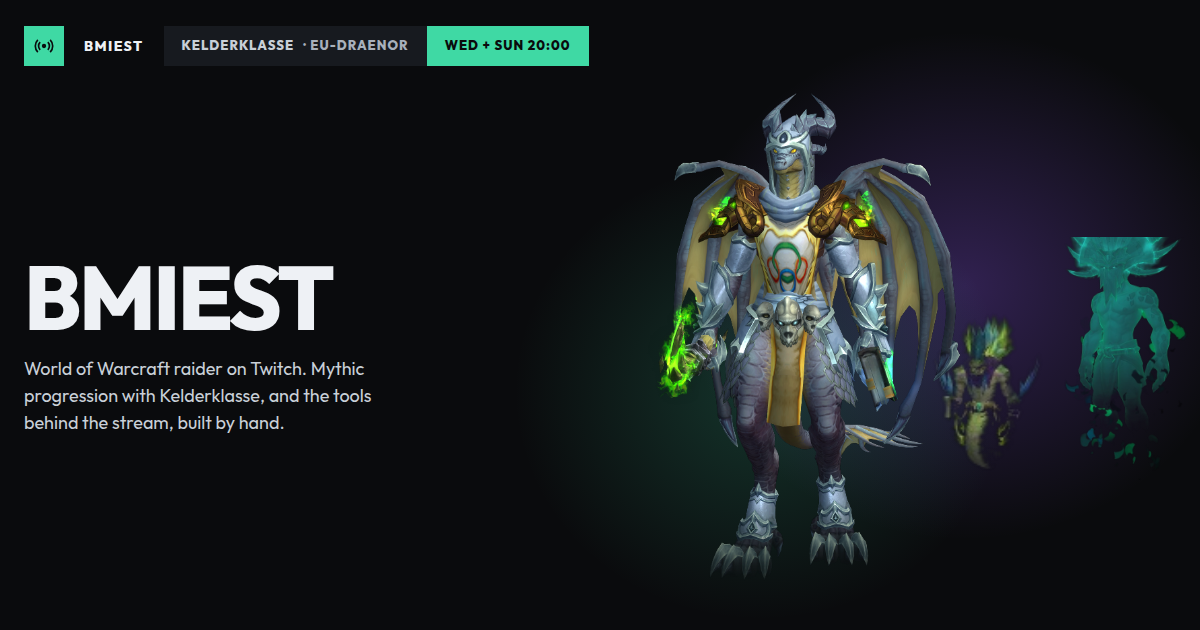
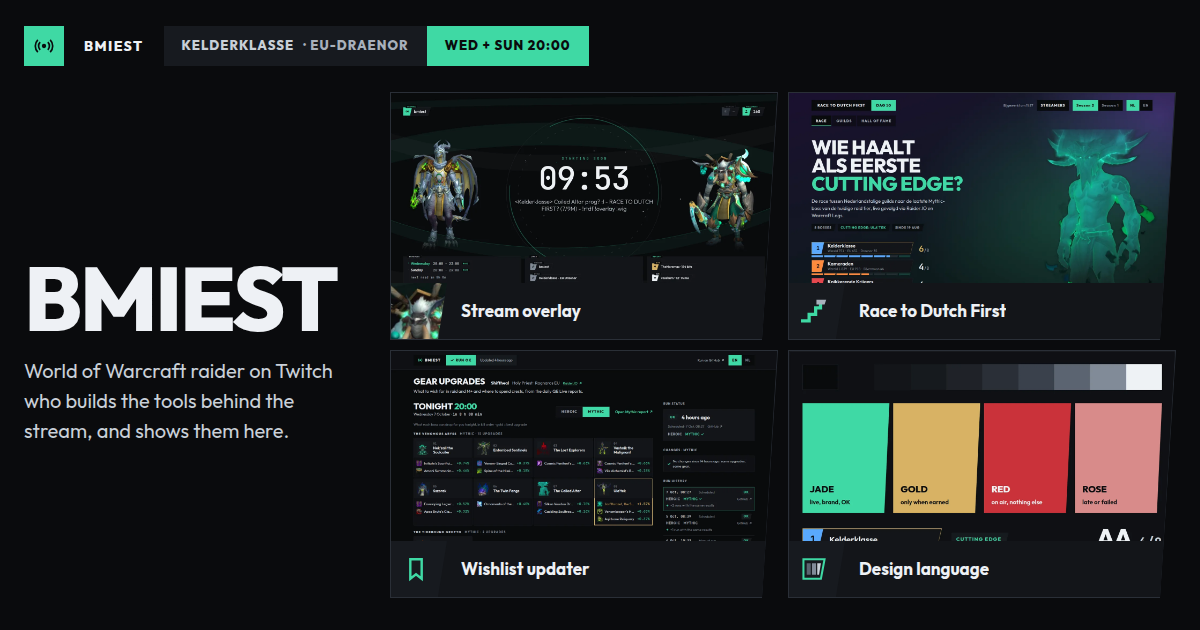
Open on a hub of the tools; YouTube; hub og.png (#2)

diff --git a/index.html b/index.html
@@ -5,12 +5,12 @@
 <meta name="viewport" content="width=device-width, initial-scale=1">
 <meta http-equiv="Content-Security-Policy" content="default-src 'self'; script-src 'self'; style-src 'self' https://fonts.googleapis.com; font-src https://fonts.gstatic.com; img-src 'self' https://render.worldofwarcraft.com; connect-src https://decapi.me https://raider.io https://racetodutchfirst.nl; base-uri 'none'; form-action 'none'">
 <title>bmiest · World of Warcraft on Twitch</title>
-<meta name="description" content="bmiest: Mythic raiding with Kelderklasse on Twitch every Wednesday and Sunday, and the tools behind the stream: the overlay, Race to Dutch First, the wishlist updater and the design language.">
+<meta name="description" content="bmiest: a World of Warcraft raider on Twitch and YouTube, and the tools behind the stream: an OBS overlay, Race to Dutch First, a WoWAudit wishlist updater and the design language that ties them together.">
 <meta name="theme-color" content="#0a0b0d">
 <meta property="og:type" content="website">
 <meta property="og:url" content="https://bmiest.be/">
 <meta property="og:title" content="bmiest · World of Warcraft on Twitch">
-<meta property="og:description" content="Mythic raiding with Kelderklasse, Wednesday and Sunday 20:00, and the tools behind the stream.">
+<meta property="og:description" content="The tools behind a raiding stream: the overlay, Race to Dutch First, the wishlist updater and the design language. Live Wed + Sun 20:00 on Twitch.">
 <meta property="og:image" content="https://bmiest.be/og.png">
 <meta name="twitter:card" content="summary_large_image">
 <link rel="icon" href="favicon.svg" type="image/svg+xml">
@@ -33,6 +33,7 @@
   <symbol id="i-twitch" viewBox="0 0 24 24"><path d="M4 3h17v11l-5 5h-4l-3 3H7v-3H3V7zM6 5v11h3v3l3-3h4l3-3V5zm5 3h2v5h-2zm5 0h2v5h-2z" fill="currentColor"/></symbol>
   <symbol id="i-clips" viewBox="0 0 24 24"><path d="M3 5h18v14H3zM5 7v10h14V7zm5 2 5 3-5 3z" fill="currentColor"/></symbol>
   <symbol id="i-github" viewBox="0 0 24 24"><path d="M12 2a10 10 0 0 0-3.2 19.5c.5.1.7-.2.7-.5v-1.7c-2.8.6-3.4-1.3-3.4-1.3-.4-1.1-1.1-1.4-1.1-1.4-.9-.6.1-.6.1-.6 1 .1 1.5 1 1.5 1 .9 1.5 2.3 1.1 2.9.8.1-.6.3-1.1.6-1.3-2.2-.3-4.6-1.1-4.6-5 0-1.1.4-2 1-2.7-.1-.3-.4-1.3.1-2.7 0 0 .8-.3 2.7 1a9.4 9.4 0 0 1 5 0c1.9-1.3 2.7-1 2.7-1 .5 1.4.2 2.4.1 2.7.6.7 1 1.6 1 2.7 0 3.9-2.4 4.7-4.6 5 .4.3.7.9.7 1.9V21c0 .3.2.6.7.5A10 10 0 0 0 12 2z" fill="currentColor"/></symbol>
+  <symbol id="i-youtube" viewBox="0 0 24 24"><path d="M22 7.4a3 3 0 0 0-2.1-2.1C18 4.8 12 4.8 12 4.8s-6 0-7.9.5A3 3 0 0 0 2 7.4 31 31 0 0 0 1.6 12a31 31 0 0 0 .4 4.6 3 3 0 0 0 2.1 2.1c1.9.5 7.9.5 7.9.5s6 0 7.9-.5a3 3 0 0 0 2.1-2.1 31 31 0 0 0 .4-4.6 31 31 0 0 0-.4-4.6zM10 15.2V8.8l5.2 3.2z" fill="currentColor"/></symbol>
   <symbol id="i-out" viewBox="0 0 24 24"><path d="M7 17 17 7M9 7h8v8" fill="none" stroke="currentColor" stroke-width="2.4" stroke-linecap="square"/></symbol>
   <symbol id="i-check" viewBox="0 0 24 24"><path d="m4 12.5 5 5L20 6.5" fill="none" stroke="currentColor" stroke-width="3" stroke-linecap="square"/></symbol>
   <symbol id="i-cast" viewBox="0 0 24 24"><circle cx="12" cy="12" r="2.6" fill="currentColor"/><path d="M7.4 7.4a6.5 6.5 0 0 0 0 9.2M16.6 7.4a6.5 6.5 0 0 1 0 9.2M4.6 4.6a10.5 10.5 0 0 0 0 14.8M19.4 4.6a10.5 10.5 0 0 1 0 14.8" fill="none" stroke="currentColor" stroke-width="2"/></symbol>
@@ -60,12 +61,18 @@
   <!-- Left: who, and the encounter list. -->
   <div class="index">
     <h1 class="poster index__name">bmiest</h1>
-    <p class="index__lead" data-i18n="lead">World of Warcraft raider on Twitch. Mythic progression with Kelderklasse, and the tools behind the stream, built by hand.</p>
+    <p class="index__lead" data-i18n="lead">World of Warcraft raider on Twitch who builds the tools behind the stream, and shows them here.</p>
 
     <nav class="journal" aria-labelledby="journalLabel">
       <h2 class="journal__label" id="journalLabel" data-i18n="journal">Adventure Guide</h2>
       <ol class="journal__list" id="journal">
-        <li><a class="enc" id="tab-stream" href="#stream" aria-current="true">
+        <li><a class="enc" id="tab-hub" href="#hub" aria-current="true">
+          <span class="enc__bar"><span class="enc__in">
+            <span class="enc__head enc__head--mark"><img src="img/heads/hub.svg" width="32" height="32" alt=""></span>
+            <span class="enc__t"><span class="enc__n" data-i18n="e.hub">Overview</span><span class="enc__s" data-i18n="e.hub.s">4 tools · 1 stream</span></span>
+          </span></span>
+        </a></li>
+        <li><a class="enc" id="tab-stream" href="#stream">
           <span class="enc__bar"><span class="enc__in">
             <span class="enc__head enc__head--live"><img src="img/heads/stream.png" width="128" height="128" alt=""></span>
             <span class="enc__t"><span class="enc__n" data-i18n="e.stream">The stream</span><span class="enc__s" id="encStreamSub" data-i18n="e.stream.s">Wed + Sun · 20:00</span></span>
@@ -102,6 +109,41 @@
   <!-- Right: one entry at a time on wide screens, all of them stacked on phones. -->
   <div class="stage" id="stage">
 
+    <article class="entry entry--hub" id="hub" aria-labelledby="h-hub">
+      <div class="art art--board">
+        <ul class="board">
+          <li><a class="plate" href="#overlay"><span class="plate__in">
+            <img class="plate__shot" src="img/shots/overlay.webp" width="1440" height="810" alt="" decoding="async">
+            <span class="plate__cap"><span class="plate__head"><img src="img/heads/overlay.png" width="128" height="128" alt=""></span><span class="plate__t"><span class="plate__n" data-i18n="e.overlay">Stream overlay</span><span class="plate__s" data-i18n="s.overlay">The OBS overlay the stream runs on</span></span></span>
+          </span></a></li>
+          <li><a class="plate" href="#race"><span class="plate__in">
+            <img class="plate__shot" src="img/shots/race.webp" width="1440" height="900" alt="" decoding="async">
+            <span class="plate__cap"><span class="plate__head plate__head--mark"><img src="img/heads/race.svg" width="32" height="32" alt=""></span><span class="plate__t"><span class="plate__n">Race to Dutch First</span><span class="plate__s" data-i18n="s.race">Live race of Dutch guilds to Cutting Edge</span></span></span>
+          </span></a></li>
+          <li><a class="plate" href="#wishlist"><span class="plate__in">
+            <img class="plate__shot" src="img/shots/wishlist.webp" width="1440" height="900" alt="" decoding="async">
+            <span class="plate__cap"><span class="plate__head plate__head--mark"><img src="img/heads/wishlist.svg" width="32" height="32" alt=""></span><span class="plate__t"><span class="plate__n" data-i18n="e.wishlist">Wishlist updater</span><span class="plate__s" data-i18n="s.wishlist">Your WoWAudit wishlist, filled in daily</span></span></span>
+          </span></a></li>
+          <li><a class="plate" href="#design"><span class="plate__in">
+            <img class="plate__shot" src="img/shots/design.webp" width="1440" height="884" alt="" decoding="async">
+            <span class="plate__cap"><span class="plate__head plate__head--mark"><img src="img/heads/design.svg" width="32" height="32" alt=""></span><span class="plate__t"><span class="plate__n" data-i18n="e.design">Design language</span><span class="plate__s" data-i18n="s.design">One look for all of it, this page too</span></span></span>
+          </span></a></li>
+        </ul>
+      </div>
+      <div class="entry__body">
+        <div class="entry__text">
+          <h2 class="entry__h" id="h-hub"><span data-i18n="h.hubA">Built for the raid,</span> <em data-i18n="h.hubB">by the raider</em></h2>
+          <p class="entry__p" data-i18n="p.hub">Everything here runs for real on raid nights: the overlay on stream, the race on Dutch guilds' screens, the wishlist before every raid. Pick a tool to see it running.</p>
+        </div>
+        <ul class="loot loot--row">
+          <li><a class="btn js-watch" href="https://www.twitch.tv/bmiest"><svg aria-hidden="true"><use href="#i-twitch"/></svg><span class="js-watch-label" data-i18n="watch">Watch on Twitch</span></a></li>
+          <li><a class="drop" href="https://www.youtube.com/@bmiest"><svg aria-hidden="true"><use href="#i-youtube"/></svg><span>YouTube</span></a></li>
+          <li><a class="drop" href="https://www.twitch.tv/bmiest/clips"><svg aria-hidden="true"><use href="#i-clips"/></svg><span data-i18n="clips">Clips</span></a></li>
+          <li><a class="drop" href="https://github.com/Bmiest"><svg aria-hidden="true"><use href="#i-github"/></svg><span>GitHub</span></a></li>
+        </ul>
+      </div>
+    </article>
+
     <article class="entry entry--stream" id="stream" aria-labelledby="h-stream">
       <div class="art art--char" aria-hidden="true">
         <div class="glow glow--void"></div>
@@ -121,7 +163,8 @@
           </ul>
         </div>
         <ul class="loot">
-          <li><a class="btn" id="watchBtn" href="https://www.twitch.tv/bmiest"><svg aria-hidden="true"><use href="#i-twitch"/></svg><span id="watchLabel" data-i18n="watch">Watch on Twitch</span></a></li>
+          <li><a class="btn js-watch" href="https://www.twitch.tv/bmiest"><svg aria-hidden="true"><use href="#i-twitch"/></svg><span class="js-watch-label" data-i18n="watch">Watch on Twitch</span></a></li>
+          <li><a class="drop" href="https://www.youtube.com/@bmiest"><svg aria-hidden="true"><use href="#i-youtube"/></svg><span>YouTube</span></a></li>
           <li><a class="drop" href="https://www.twitch.tv/bmiest/clips"><svg aria-hidden="true"><use href="#i-clips"/></svg><span data-i18n="clips">Clips</span></a></li>
           <li><a class="drop" href="https://github.com/Bmiest"><svg aria-hidden="true"><use href="#i-github"/></svg><span>GitHub</span></a></li>
         </ul>
@@ -242,6 +285,7 @@
   <p class="foot__sig"><span class="foot__mark" aria-hidden="true"><svg><use href="#i-cast"/></svg></span><span data-i18n="foot">bmiest · built by hand in the bmiest design language</span></p>
   <ul class="foot__links">
     <li><a href="https://www.twitch.tv/bmiest">Twitch</a></li>
+    <li><a href="https://www.youtube.com/@bmiest">YouTube</a></li>
     <li><a href="https://www.twitch.tv/bmiest/clips" data-i18n="clips">Clips</a></li>
     <li><a href="https://github.com/Bmiest">GitHub</a></li>
     <li><a href="https://github.com/Bmiest/bmiest_landing" data-i18n="pageSource">This page's source</a></li>

diff --git a/css/site.css b/css/site.css
@@ -124,7 +124,7 @@ svg { display: block; }
 /* An encounter: the overlay's character-select pick. */
 .enc { display: block; color: var(--paper); text-decoration: none; }
 .enc__bar {
-  display: block; height: 66px; padding: 1px; background: var(--ink-600);
+  display: block; height: 54px; padding: 1px; background: var(--ink-600);
   clip-path: polygon(0 0, 100% 0, calc(100% - 11px) 100%, 0 100%);
   transition: background var(--t-fast) var(--ease);
 }
@@ -177,6 +177,35 @@ svg { display: block; }
 
 .loot { list-style: none; display: flex; flex-direction: column; align-items: stretch; gap: 8px; }
 .loot .btn, .loot .drop { width: 100%; }
+
+/* Hub: the loot runs as one row under the text. */
+.entry--hub .entry__body { grid-template-columns: minmax(0, 1fr); }
+.loot--row { flex-direction: row; flex-wrap: wrap; }
+.loot--row .btn, .loot--row .drop { width: auto; }
+
+/* ---- the hub board: the four tools as plates, each a link to its entry ----------
+   A plate is the ribbon's construction at poster size: a 1px slanted outline (ink-600,
+   jade on hover and focus) around an ink-850 body with the real shot on top and a
+   caption bar below, its head tile left like an encounter. */
+/* Absolute in its art box, so the board takes the space the text leaves and never pushes it. */
+.art--board { position: relative; }
+.board { position: absolute; inset: 0; list-style: none; display: grid; grid-template-columns: repeat(2, minmax(0, 1fr)); grid-template-rows: repeat(2, minmax(0, 1fr)); gap: 12px; height: 100%; }
+.plate { display: block; height: 100%; padding: 1px; background: var(--ink-600); color: var(--paper); text-decoration: none;
+  clip-path: polygon(0 0, 100% 0, calc(100% - 16px) 100%, 0 100%); transition: background var(--t-fast) var(--ease); }
+.plate__in { display: grid; grid-template-rows: minmax(0, 1fr) auto; height: 100%; background: var(--ink-850);
+  clip-path: polygon(0 0, 100% 0, calc(100% - 15px) 100%, 0 100%); }
+.plate__shot { width: 100%; height: 100%; min-height: 0; object-fit: cover; object-position: 50% 0; transition: transform var(--t-slow) var(--ease); }
+.plate__cap { display: flex; align-items: stretch; height: 56px; background: var(--ink-800); padding-right: 28px; }
+.plate__head { flex: 0 0 56px; display: grid; place-items: center; background: var(--ink-750); overflow: hidden;
+  clip-path: polygon(0 0, 100% 0, calc(100% - 9px) 100%, 0 100%); }
+.plate__head img { width: 100%; height: 100%; object-fit: cover; object-position: 50% 0; }
+.plate__head--mark img { width: 26px; height: 26px; object-fit: contain; margin-right: 7px; }
+.plate__t { display: grid; align-content: center; gap: 1px; padding-left: 14px; min-width: 0; }
+.plate__n { font-size: 18px; font-weight: 700; line-height: 1.15; white-space: nowrap; overflow: hidden; text-overflow: ellipsis; }
+.plate__s { font-size: 13px; color: var(--ink-200); white-space: nowrap; overflow: hidden; text-overflow: ellipsis; }
+.plate:hover, .plate:focus-visible { background: var(--jade); outline: 0; }
+.plate:hover .plate__n, .plate:focus-visible .plate__n { color: var(--jade); }
+.plate:hover .plate__shot { transform: scale(1.025); }
 
 /* ---- art ------------------------------------------------------------------- */
 .art { position: relative; min-height: 0; margin: 0; }
@@ -252,7 +281,7 @@ svg { display: block; }
   .is-tabs .entry.is-in .art { animation: wipe 620ms cubic-bezier(.16, 1, .3, 1) both; }
   .is-tabs .entry.is-in .entry__body { animation: rise 520ms 90ms cubic-bezier(.16, 1, .3, 1) both; }
   .entry--project .art { padding-left: 4%; }
-  .guide { height: max(640px, calc(100svh - var(--top-h) - var(--tick-h))); }
+  .guide { height: max(700px, calc(100svh - var(--top-h) - var(--tick-h))); }
   .stage { height: 100%; }
 }
 /* The wipe runs along the family slant: its leading edge leans down and to the right. */
@@ -321,6 +350,15 @@ svg { display: block; }
   .entry--stream .entry__title { order: 3; }
   .entry--stream .loot { order: 4; margin-top: 18px; }
   .entry--stream .abil { order: 5; }
+  /* The hub is the top of the stack here, so its row in the jump strip would point at what follows it. */
+  .journal__list li:has(#tab-hub) { display: none; }
+  /* The hub on phones: heading and loot first, then the board as a 2 x 2 of thumbnails. */
+  .entry--hub { display: flex; flex-direction: column; }
+  .entry--hub .entry__body { order: 1; padding-top: 0; }
+  .entry--hub .art { order: 2; margin-top: 24px; }
+  .entry--hub .loot { margin-top: 18px; }
+  .board { position: static; height: auto; grid-template-rows: none; }
+  .plate__shot { aspect-ratio: 4 / 3; height: auto; }
 }
 @media (max-width: 720px) {
   :root { --gut: 16px; --top-h: 72px; }
@@ -334,6 +372,13 @@ svg { display: block; }
   .index__lead { font-size: 17px; }
   .journal__list { grid-template-columns: 1fr; }
   .bug__day { display: none; }
+  .board { gap: 8px; }
+  .plate__s { display: none; }
+  .plate__cap { height: 46px; padding-right: 18px; }
+  .plate__head { flex-basis: 40px; }
+  .plate__head--mark img { width: 20px; height: 20px; margin-right: 5px; }
+  .plate__t { padding-left: 9px; }
+  .plate__n { font-size: 13px; white-space: normal; line-height: 1.1; }
   .art--char { height: 420px; }
   .fig { left: 30%; max-width: 70%; }
   .boss { left: 46%; opacity: .55; }
@@ -358,6 +403,7 @@ svg { display: block; }
 
 /* ---- reduced motion: no wipe, no pulse, a static scrollable ticker ------------ */
 @media (prefers-reduced-motion: reduce) {
+  .plate:hover .plate__shot { transform: none; }
   .is-tabs .entry.is-in .art, .is-tabs .entry.is-in .entry__body { animation: none; }
   .live-dot { animation: none; }
   .ticker__list { animation: none; }

diff --git a/js/site.js b/js/site.js
@@ -84,6 +84,18 @@ function setupTabs(){
     });
   });
 
+  /* The hub's plates are links to the entries: on wide screens they switch the tab. */
+  document.querySelectorAll('.plate').forEach(function(a){
+    a.addEventListener('click', function(e){
+      if(!WIDE.matches) return;
+      var i = tabs.findIndex(function(t){ return t.hash === a.hash; });
+      if(i < 0) return;
+      e.preventDefault();
+      select(i, true);
+      tabs[i].focus();
+    });
+  });
+
   window.addEventListener('hashchange', function(){
     var i = tabs.findIndex(function(a){ return a.hash === location.hash; });
     if(i >= 0 && WIDE.matches) select(i, false);
@@ -180,9 +192,10 @@ var title = null;
 function paintLive(){
   $('bugLive').hidden = !live;
   document.body.classList.toggle('is-live', live);
-  var btn = $('watchBtn');
-  btn.classList.toggle('btn--live', live);
-  $('watchLabel').textContent = live ? I.str('watchLive') || 'Live now · watch' : I.str('watch');
+  document.querySelectorAll('.js-watch').forEach(function(btn){ btn.classList.toggle('btn--live', live); });
+  document.querySelectorAll('.js-watch-label').forEach(function(n){
+    n.textContent = live ? I.str('watchLive') || 'Live now · watch' : I.str('watch');
+  });
   paintNext();
   $('hStreamA').textContent = t('hA');
   $('hStreamB').textContent = live ? t('hLive') : t('hOff');

diff --git a/js/i18n.js b/js/i18n.js
@@ -8,7 +8,16 @@
 var NL = {
   'skip': 'Naar de gids',
   'live': 'Live',
-  'lead': 'World of Warcraft-raider op Twitch. Mythic progressie met Kelderklasse, en de tools achter de stream, zelf gebouwd.',
+  'lead': 'World of Warcraft-raider op Twitch die de tools achter de stream zelf bouwt, en ze hier laat zien.',
+  'e.hub': 'Overzicht',
+  'e.hub.s': '4 tools · 1 stream',
+  'h.hubA': 'Gebouwd voor de raid,',
+  'h.hubB': 'door de raider',
+  'p.hub': 'Alles hier draait echt op raidavonden: de overlay op stream, de race op de schermen van Nederlandse guilds, de wishlist voor elke raid. Kies een tool om hem aan het werk te zien.',
+  's.overlay': 'De OBS-overlay waar de stream op draait',
+  's.race': 'Live race van Nederlandse guilds naar Cutting Edge',
+  's.wishlist': 'Je WoWAudit-wishlist, elke dag ingevuld',
+  's.design': 'Eén look voor alles, ook deze pagina',
   'journal': 'Avonturengids',
   'e.stream': 'De stream',
   'e.stream.s': 'wo + zo · 20:00',

diff --git a/DESIGN.md b/DESIGN.md
@@ -241,7 +241,7 @@ components:
 
 **Creative North Star: "The Adventure Guide"**
 
-bmiest's front door opens like WoW's Adventure Guide. A left column carries the name in poster caps, one lead line and the encounter list: the stream as the overview, then the four projects (overlay, Race to Dutch First, wishlist updater, design language). The stage on the right shows one entry at a time: its art at full stage height, a title, two lines of copy, an abilities row of flush label/value chips, and the loot, where Watch on Twitch (or the project's own link) is the slanted jade primary and the rest are slanted ink loot rows. The broadcast bug crowns the page and a kills ticker closes the first viewport edge to edge. Choosing an encounter wipes the art in along the family slant; every entry has its own hash.
+bmiest's front door opens like WoW's Adventure Guide. A left column carries the name in poster caps, one lead line and the encounter list: the Overview (the hub), the stream, then the four tools (overlay, Race to Dutch First, wishlist updater, design language). The page opens on the hub: the four tools as plates on one board, each a real shot that opens its entry, over "Built for the raid, by the raider" and the channel loot (Watch on Twitch, YouTube, Clips, GitHub). The tools lead as much as the stream (user, 2026-10-07). The stage on the right shows one entry at a time: its art at full stage height, a title, two lines of copy, an abilities row of flush label/value chips, and the loot, where Watch on Twitch (or the project's own link) is the slanted jade primary and the rest are slanted ink loot rows. The broadcast bug crowns the page and a kills ticker closes the first viewport edge to edge. Choosing an encounter wipes the art in along the family slant; every entry has its own hash.
 
 It is the family's v2 language unchanged: flat near-black ink, Outfit 800 caps, jade as brand and selection, gold only for something earned, live-red only while the channel is live, right-edge slants on every chip, ribbon and button, flush square blocks for the bug, the language switch and the ticker, mono for compared numbers. The art is the work running: Shiftheal's render before the boss Kelderklasse is on, in the jade and void glow, and the projects' real screenshots in a slanted model-viewer frame. The design entry draws its specimen from the tokens it documents.
 
@@ -251,7 +251,7 @@ Confirmed rejections (direction contract): the link-in-bio column, and the hero 
 - [family] Flat ink scale, Outfit + JetBrains Mono, jade + gold, from the overlay's tokens.css as a byte copy.
 - [family] Right-edge slant on ribbons, pills, buttons, chips and tiles; square corners everywhere else; bug, switch and ticker flush and square.
 - [family] Colour as meaning: jade = brand/live/selected, gold = earned, live-red = on air only, rose = late or failed.
-- [landing] The Adventure Guide: encounter list left, one entry on the stage, loot as the actions.
+- [landing] The Adventure Guide: encounter list left, one entry on the stage, loot as the actions; it opens on the hub board of the four tools.
 - [landing] The work shown running: live LIVE state, live race standing, Shiftheal from Raider.IO, real screenshots.
 - [landing] Carries bmiest branding (the jade cast mark in the bug and footer), unlike the brand-neutral race site.
 
@@ -321,9 +321,9 @@ The family's near-black ink ramp with one cool jade voice, one warm gold voice, 
 
 ## Layout
 
-[landing] One container, 1360px max, 24px gutters (16px under 720px, 12px under 400px). The bug bar is 92px tall (72px under 720px), the ticker 52px. From 1100px the guide is a two-column grid: the index column (300-400px) and the stage (the rest), 48px apart, filling exactly the first viewport between bug and ticker (at least 640px tall). The index stacks name, lead and the encounter list, the list pushed to the column's bottom; encounters are 66px tall, 8px apart. On the stage an entry is the art (the remaining height) over a body row of text left and loot right (40px apart); project art is inset 4% from the stage's left edge.
+[landing] One container, 1360px max, 24px gutters (16px under 720px, 12px under 400px). The bug bar is 92px tall (72px under 720px), the ticker 52px. From 1100px the guide is a two-column grid: the index column (300-400px) and the stage (the rest), 48px apart, filling exactly the first viewport between bug and ticker (at least 700px tall). The index stacks name, lead and the encounter list, the list pushed to the column's bottom; encounters are 54px tall, 8px apart (six of them). On the stage an entry is the art (the remaining height) over a body row of text left and loot right (40px apart); project art is inset 4% from the stage's left edge. The hub's body is one column with its loot as a row, and its board is positioned inside the art box so it takes exactly the height the text leaves: a 2 x 2 grid, 12px gaps.
 
-Below 1100px every entry is its own section, stacked 64px apart, and the list becomes a jump strip: 48px encounters in an auto-fill grid (160px minimum, 6px gaps; one column under 720px). The stream art is a 380-560px band (420px on phones) and comes after its loot; screenshots take 16:10; loot rows lay out in a wrapping row, then full-width stacked under 720px. Everything works at 350px (the bug's guild slot drops there).
+Below 1100px every entry is its own section, stacked 64px apart, and the list becomes a jump strip: 48px encounters in an auto-fill grid (160px minimum, 6px gaps; one column under 720px). The stream art is a 380-560px band (420px on phones) and comes after its loot; the hub likewise puts its heading and loot first, then the board as a 2 x 2 of 4:3 thumbnails (names only, 8px gaps under 720px); screenshots take 16:10; loot rows lay out in a wrapping row, then full-width stacked under 720px. Everything works at 350px (the bug's guild slot drops there).
 
 ## Elevation & Depth
 
@@ -334,7 +334,7 @@ Flat. No drop shadows. Depth comes from the ink ramp (ink-900 ground, ink-850 we
 
 ## Shapes
 
-[family] Corners are square. The signature is the right-edge slant, `clip-path: polygon(0 0, 100% 0, calc(100% - N) 100%, 0 100%)`. On this page N is 22px on the screenshot frame and the specimen panel, 12px on the primary button and loot rows, 11px on encounter and ribbon outlines and specimen role tiles, 10px on their inner bodies, encounter heads, ribbon accent blocks and the caption plate, 8px on ability values, 6px on pills, 5px on the footer mark, 4px on the journal heading's cap. Outlines are a slanted outer clip one pixel larger than the inner one. The only round thing is the LIVE dot. Ability keys, the bug, the language switch and the ticker are flush and square. Marks are drawn SVG (Twitch, clips, GitHub, out-arrow, check, cast) in one stroke family.
+[family] Corners are square. The signature is the right-edge slant, `clip-path: polygon(0 0, 100% 0, calc(100% - N) 100%, 0 100%)`. On this page N is 22px on the screenshot frame and the specimen panel, 12px on the primary button and loot rows, 11px on encounter and ribbon outlines and specimen role tiles, 10px on their inner bodies, encounter heads, ribbon accent blocks and the caption plate, 8px on ability values, 6px on pills, 5px on the footer mark, 4px on the journal heading's cap. Outlines are a slanted outer clip one pixel larger than the inner one. The only round thing is the LIVE dot. Ability keys, the bug, the language switch and the ticker are flush and square. Marks are drawn SVG (Twitch, YouTube, clips, GitHub, out-arrow, check, cast) in one stroke family.
 
 [landing] The stage wipe runs along the slant: the art enters from the right with a leading edge leaning 80px down and to the right (620ms, cubic-bezier(.16,1,.3,1)); the body rises 14px after 90ms.
 
@@ -360,6 +360,9 @@ The secondary action: a slanted ink-750 chip at the button's height and slant, l
 
 ### Abilities [landing]
 Flush 30px label/value chips: the key on ink-750 (label type at 800, ink-200), the value on ink-800 (ability-value type, paper) with an 8px trailing slant and ellipsis. Live values (next raid, the guild's current boss, the race leader, Shiftheal's spec and ilvl) replace static fallbacks; earned words in them go gold.
+
+### Tool plate [landing]
+The hub's link to a tool, the ribbon's construction at poster size: a 1px outline with a 16px trailing slant (ink-600; jade on hover and focus) around an ink-850 body (15px slant). The body is the tool's real shot (cover, from the top; it scales to 1.025 on hover, not under reduced motion) over a 56px ink-800 caption bar: a 56px head tile like the encounter's (head crop or the tool's mark at 26px), the name at 18px/700 (jade on hover) and an ink-200 one-liner at 13px. The design plate's shot is a capture of this page's own specimen panel. On wide screens a plate switches the tab; on phones it jumps to the section.
 
 ### Pills [family]
 Slanted ink-750 chips in label type, uppercase; jade text for "Demo mode" and Cutting Edge. On the screenshot caption plate a pill loses its slant and sits on an ink-900 plate beside the mono URL; the plate carries the slant.

diff --git a/PRODUCT.md b/PRODUCT.md
@@ -20,7 +20,7 @@ bmiest.be serves three audiences equally (confirmed 2026-10-07); none leads:
 
 ## Product Purpose
 
-bmiest's front door: a link hub plus a personal portfolio. It says who bmiest is, carries the links (Twitch, Twitch clips, GitHub, Race to Dutch First) and shows the projects with short write-ups. Success: any of the three audiences finds what they came for, the channel, a project or the person behind them, without hunting.
+bmiest's front door: a link hub plus a personal portfolio. It says who bmiest is, carries the links (Twitch, YouTube, Twitch clips, GitHub, Race to Dutch First) and shows the projects with short write-ups. Success: any of the three audiences finds what they came for, the channel, a project or the person behind them, without hunting.
 
 ## Positioning
 
@@ -40,7 +40,8 @@ Everything on it is built by a raiding streamer for their own raids and stream, 
   - Race to Dutch First: `racetodutchfirst.nl`; the repo is private. The race site itself stays brand-neutral.
   - WoWAudit wishlist updater: `wishlistupdater.bmiest.be`, repo Bmiest/bmiest_wowaudit_wishlist_updater (public). The dashboard is for the operator.
   - Design system: Bmiest/bmiest-design (public); `design.bmiest.be` is planned and not live.
-- **Links:** Twitch (`twitch.tv/bmiest`), Twitch clips (`twitch.tv/bmiest/clips`, in place of YouTube), GitHub (`github.com/Bmiest`), Race to Dutch First. No Discord.
+- **Links:** Twitch (`twitch.tv/bmiest`), YouTube (`youtube.com/@bmiest`, added 2026-10-07), Twitch clips (`twitch.tv/bmiest/clips`), GitHub (`github.com/Bmiest`), Race to Dutch First. No Discord.
+- **The tools lead (user, 2026-10-07):** the page is as much about the tools built as about the stream; it opens on a hub of all four tools.
 - **Live on load:** the LIVE state from DecAPI, the race standing from racetodutchfirst.nl's `race.json`, Shiftheal from Raider.IO; every block falls back to static content when a fetch fails.
 
 ## Brand Commitments

diff --git a/.impeccable/surfaces/index-html.md b/.impeccable/surfaces/index-html.md
@@ -24,3 +24,7 @@ FIRST VIEWPORT: bug across the top (LIVE · bmiest · Kelderklasse · Wo+Zo 20:0
 FORM: Adventure Guide, position 5 of 7 on the grounded list (dealt lead), seed key b3d0ab64. Signature interaction: choosing an encounter swaps the stage, the art sliding in from the model viewer's right edge with a clip-path wipe along the family slant; the hash (#overlay) makes every entry linkable. On phones every entry stacks as its own section and the list becomes a jump strip.
 
 FINISH: unreviewed and undocumented is unfinished; this build ends with the finish review, the verdict, DESIGN.md, and every shipping raster carrying its provenance
+
+## Change 2026-10-07: the hub opening
+
+User: the page should be as much about the tools as the stream, the OG should picture the hub, and YouTube joins the links. Chosen: "Hub opening". The guide opens on an Overview entry: the four tools as plates on a 2 x 2 board (real shots, one line each, each opening its entry), "Built for the raid, by the raider", and the channel loot (Watch on Twitch, YouTube, Clips, GitHub). The stream moved to its own entry, unchanged. og.png is a capture of that hub view. The direction contract above still holds; the FIRST VIEWPORT block now reads with the hub in the stage instead of the stream art.
